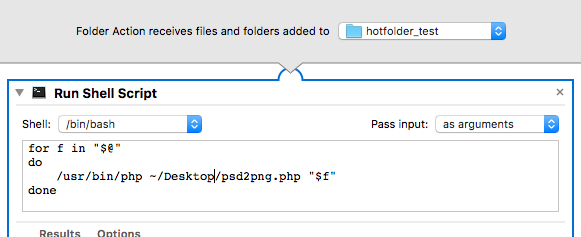
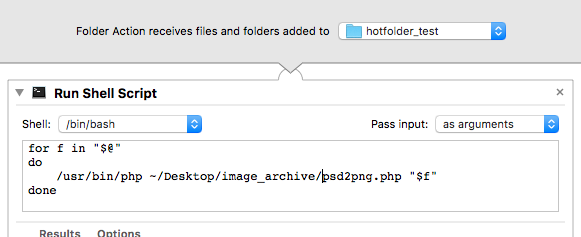
Added README; updated path to script in Automator workflow

Changed region(s): [[0.0, 0.2954, 0.9914, 1.0], [0.3718, 0.7089, 0.7745, 0.7975]]

diff --git a/README.md b/README.md
@@ -1,0 +1,47 @@
+# Using the PSD2PNG script
+The PSD2PNG utility script was created to reduce large Photoshop files for archiving purposes. The script takes a layered Photoshop file as input, and generates new files based on the following logic:
+
+* Layers with names matching **silo** or **shadow** are merged as they are ordered, and exported to both a PNG file and a single-layer PSD file. The files are named using the original file name, with the characters **_sm** appended.
+* Layers with the name **base** are merged and exported in the same fashion. However, the exported PNG and PSD files retain the original filename.
+
+Further details:
+
+* The exported files are saved into a sub-folder named `processed`. This is both for hot folder compatibility (explained below) and to avoid overwriting the original PSD file.
+* The layer matching uses regular expressions, rather than exact matches, to allow for typos, numbering, etc. (e.g. silo1, silo2).
+* The original script exported **silo** and **shadow** layers to separate files (filename_sl.png and filename_sh.png, respectively). The logic for this is still in the script, but commented out.
+
+## Using the script as a standalone
+The script is run from the command line, and can be run independently by passing the path to a PSD file as an argument, for example:
+
+`php psd2png.php ~/COS/PSD/COS010118WPYCOSMOBITES_001.psd`
+
+The script uses ImageMagick to extract the layer names from the PSD, match them against the regular expressions, and export the merged PSD and PNG files as appropriate.
+
+Note that while PHP is part of the standard install for Mac OS X, __ImageMagick__ will need to be installed. This is most easily done via a package manager like [Homebrew](https://brew.sh).
+
+## Applying the script as a folder action
+On Mac OS X, the [Automator](https://developer.apple.com/library/content/documentation/AppleApplications/Conceptual/AutomatorConcepts/Automator.html) program allows you to trigger "actions" when a file is added to a folder (often referred to as a "hot folder"). This repository contains a directory named `PSD2PNG.workflow` which can be opened in Automator to create a _service_ that can be applied to folders in the Finder program.
+
+The PSD2PNG folder action triggers a shell script that is run whenever a new file is added to the folder. The code for the action is below:
+
+```
+for f in "$@"
+do
+	/usr/bin/php ~/Desktop/psd2png.php "$f"
+done
+```
+The only parts that may need to be altered are the paths. The path to PHP can be determined by entering `which php` in a Terminal window. The path to the `psd2png.php` script is arbitrary, depending on where the user chooses to save it. The script must exist at the path specified or the action will fail.
+
+Once its set up, the action can be applied to a folder by right-clicking on it in Finder and selecting `Services > Folder Actions Setup`. The `PSD2PNG.workflow` action should be available in the list of actions that pops up.
+
+## Cloning or downloading the repository
+There are a couple of options for copying these files to your local machine. The repository page on GitHub has a "Download or Clone" button, which allows you to either:
+
+* Download a zip containing all of the files in the repository; or
+* Clone the repository using Git: `git clone https://github.com/zinndesign/image_archive.git`
+
+The advantage to cloning the repository is that it maintains a link to the remote source - so if changes are made, a simple call to `git pull` will update the local files.
+
+However, if the script will not be updated frequently - or if the intention is to move it to a different folder - downloading a zip will suffice.
+
+_Last update: 03/02/2018_
